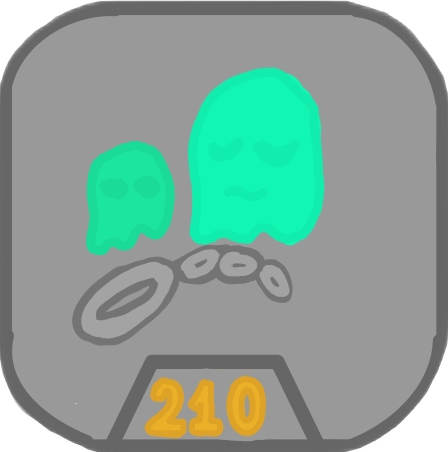
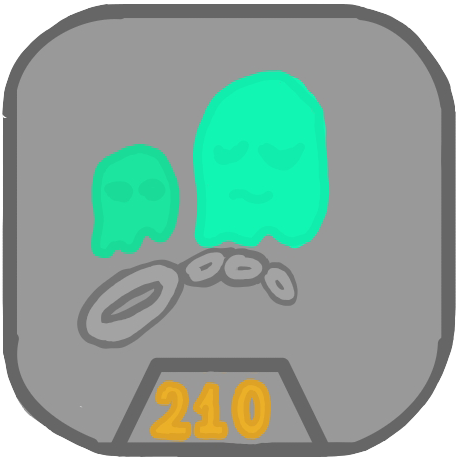
.

diff --git a/css/style.css b/css/style.css
@@ -53,18 +53,26 @@ canvas{
 
 .tower-options {
     position: absolute;
-    width: 80px;
-    height: 80px;
-    background: rgb(73, 73, 73);
-    border-radius: 10px;
+    width: 90px;
+    height: 90px;
+    
+    background-size: 100% 100%; 
+    background-repeat: no-repeat;
+    background-position: center;
+    background-color: transparent;
+    border: none;                  
+    box-shadow: none;              
+    border-radius: 0;              
     display: flex;
     align-items: center;
     justify-content: center;
     cursor: pointer;
-    border: 2px solid rgba(120, 120, 120, 0.6);
-    box-shadow: 0 0 0px rgba(0, 140, 255, 0.0);
-    background-clip: padding-box;
-    transition:all 0.3s ease;
+    transition: all 0.3s ease-in-out;
+}
+
+.tower-options:hover {
+    transform: scale(1.05);
+    border: none; 
 }
 .tower-options:hover {
     transform: scale(1.12);
@@ -98,11 +106,11 @@ canvas{
     width: 40px;
     height: 40px;
     bottom: -20px;
-    left: 50%;
+    left: 52%;
     transform: translateX(-50%);
     border-radius: 50%;
     border: 2px solid rgba(120, 120, 120, 0.6);
-    background:black;
+    background:rgb(76, 76, 76);
     color: rgba(120, 120, 120, 0.8);
     font-size: 24px;
     cursor: pointer;

diff --git a/index.html b/index.html
@@ -31,15 +31,15 @@
         </button>
 
         <button id="barracks" class="tower-options">
-            <img src="media/barracks.png" height="90px" width="90px">
+            <img src="media/barracks.png" height="80px" width="80px">
         </button>
 
-        <button id="bomb-tower" class="tower-options">
-            <img src="media/archer.png" height="60px" width="60px">
+        <button id="soul-hunter" class="tower-options">
+            <img src="media/soul-hunter.png" height="60px" width="60px">
         </button>
 
-        <button id="sniper-tower" class="tower-options">
-            <img src="media/archer.png" height="60px" width="60px">
+        <button id="workshop" class="tower-options">
+            <img src="media/workshop.png" height="60px" width="60px">
         </button>
 
         <button id="close-tower-menu" class="close-btn">✕</button>
